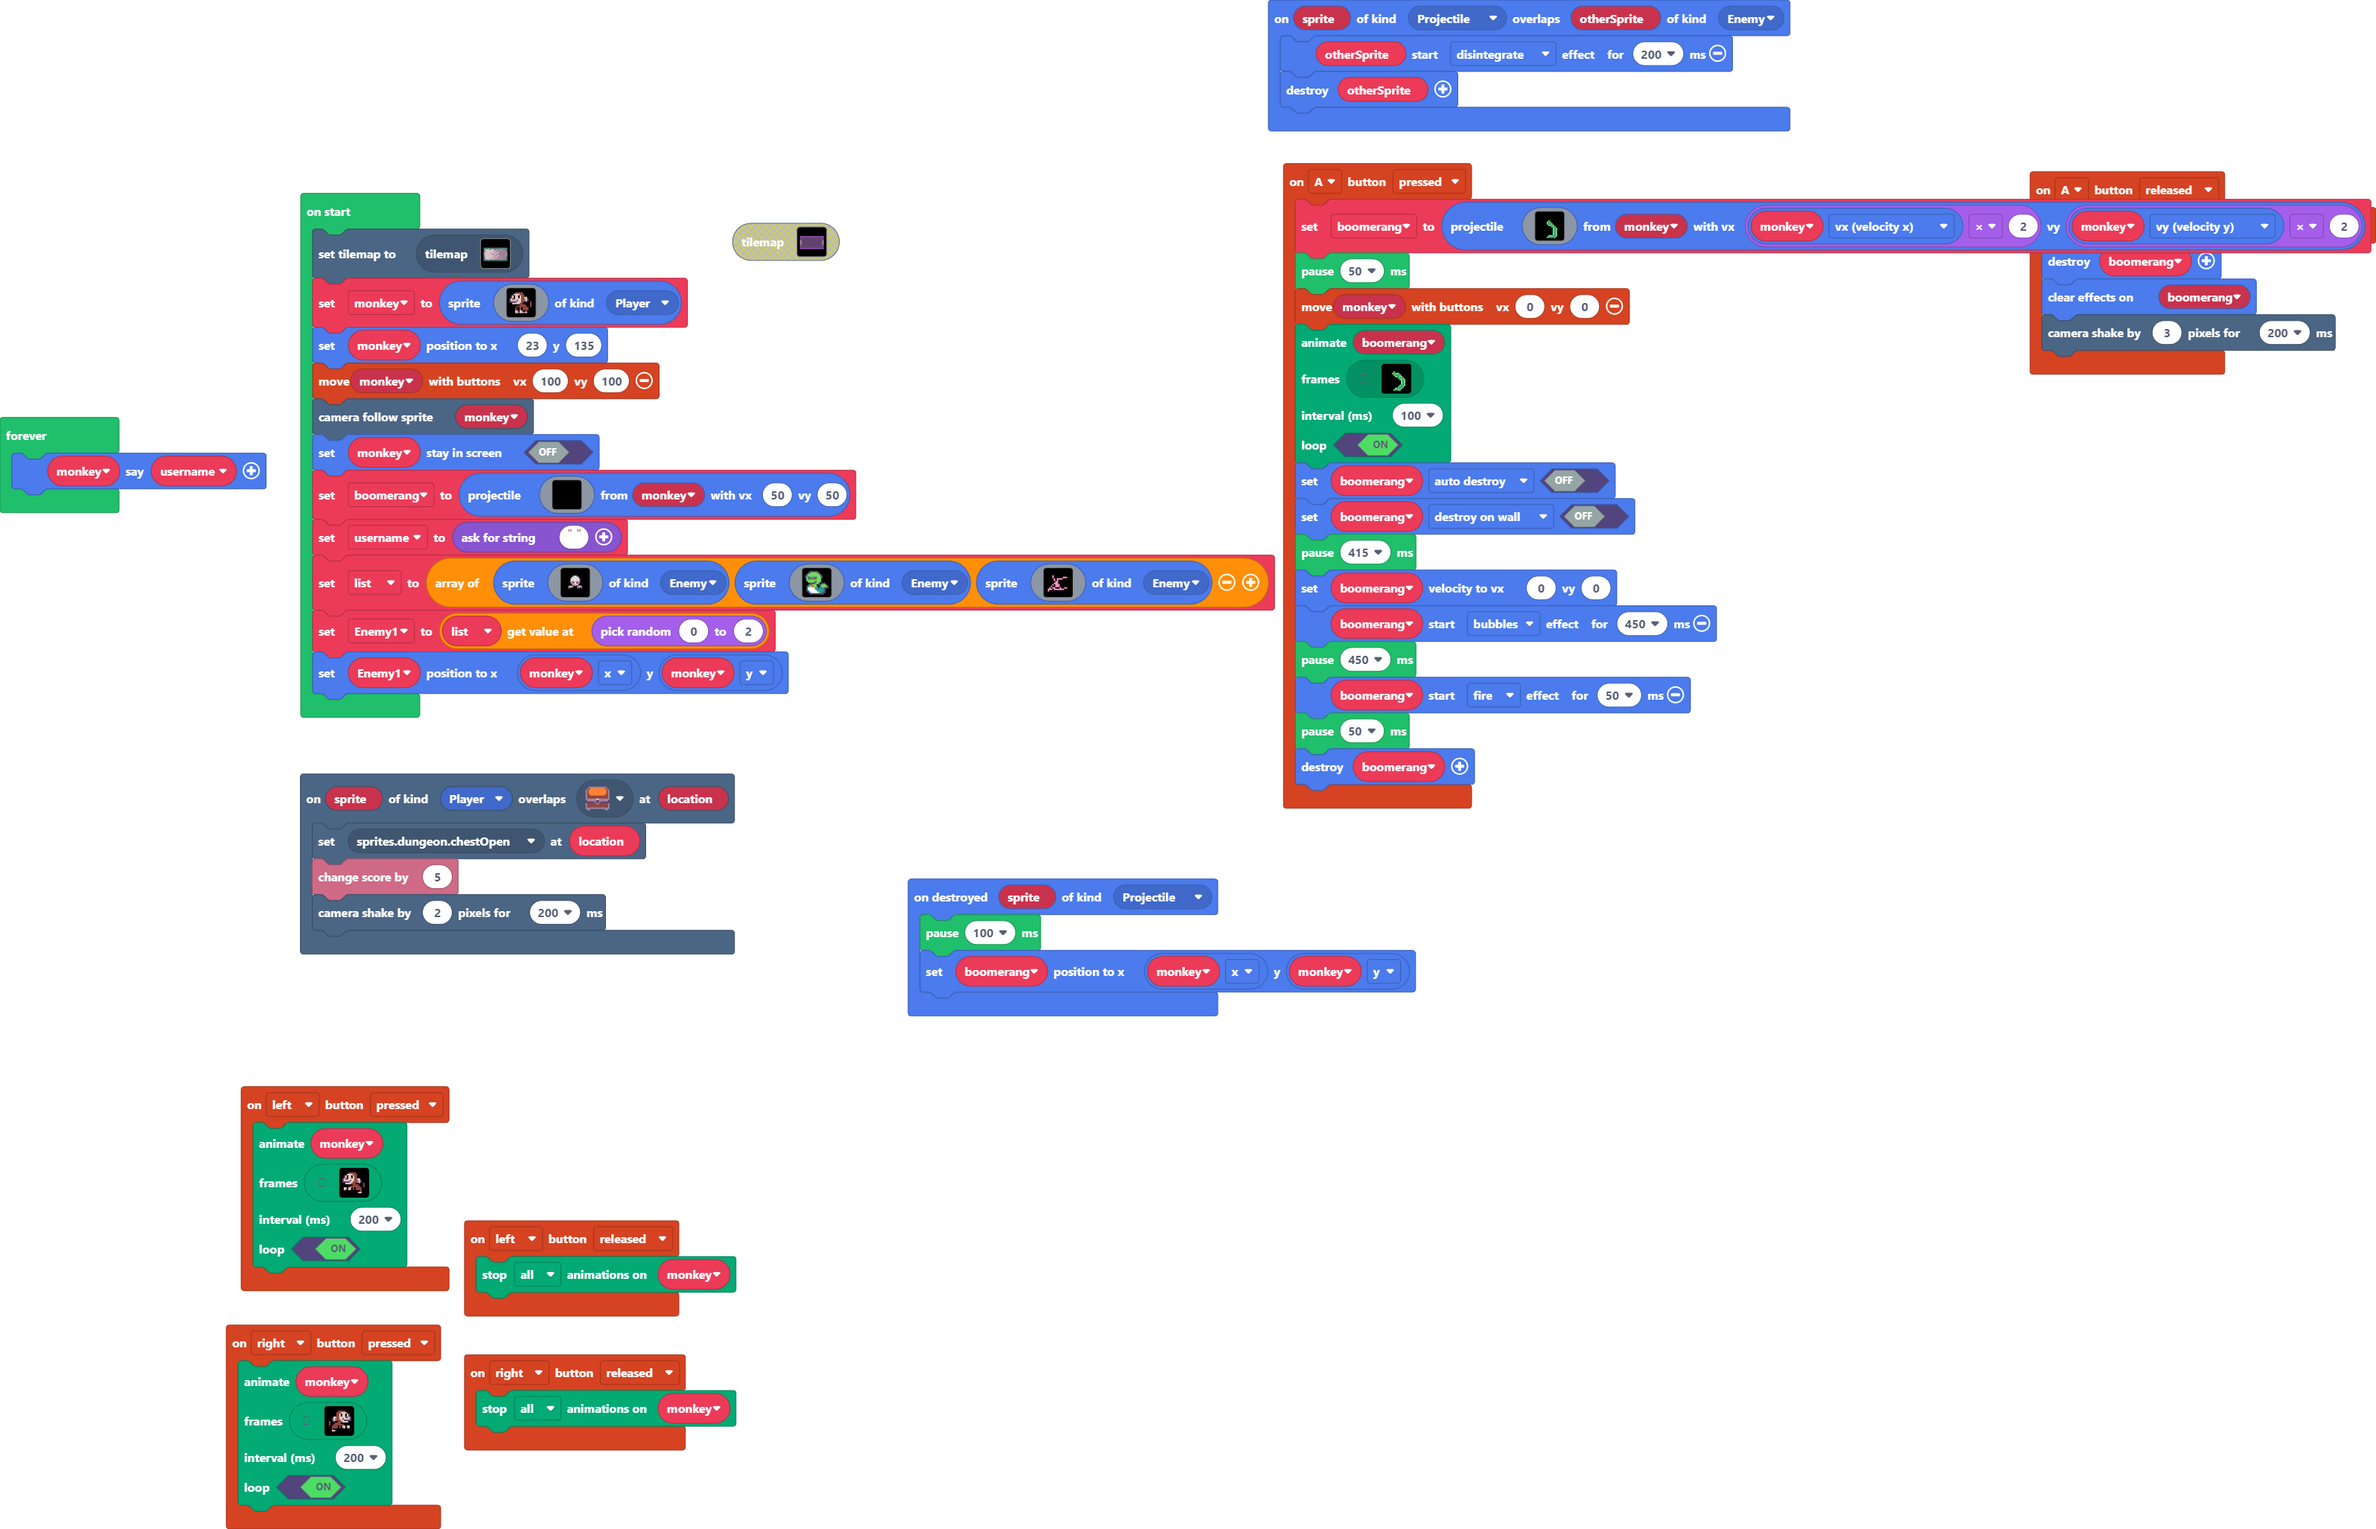
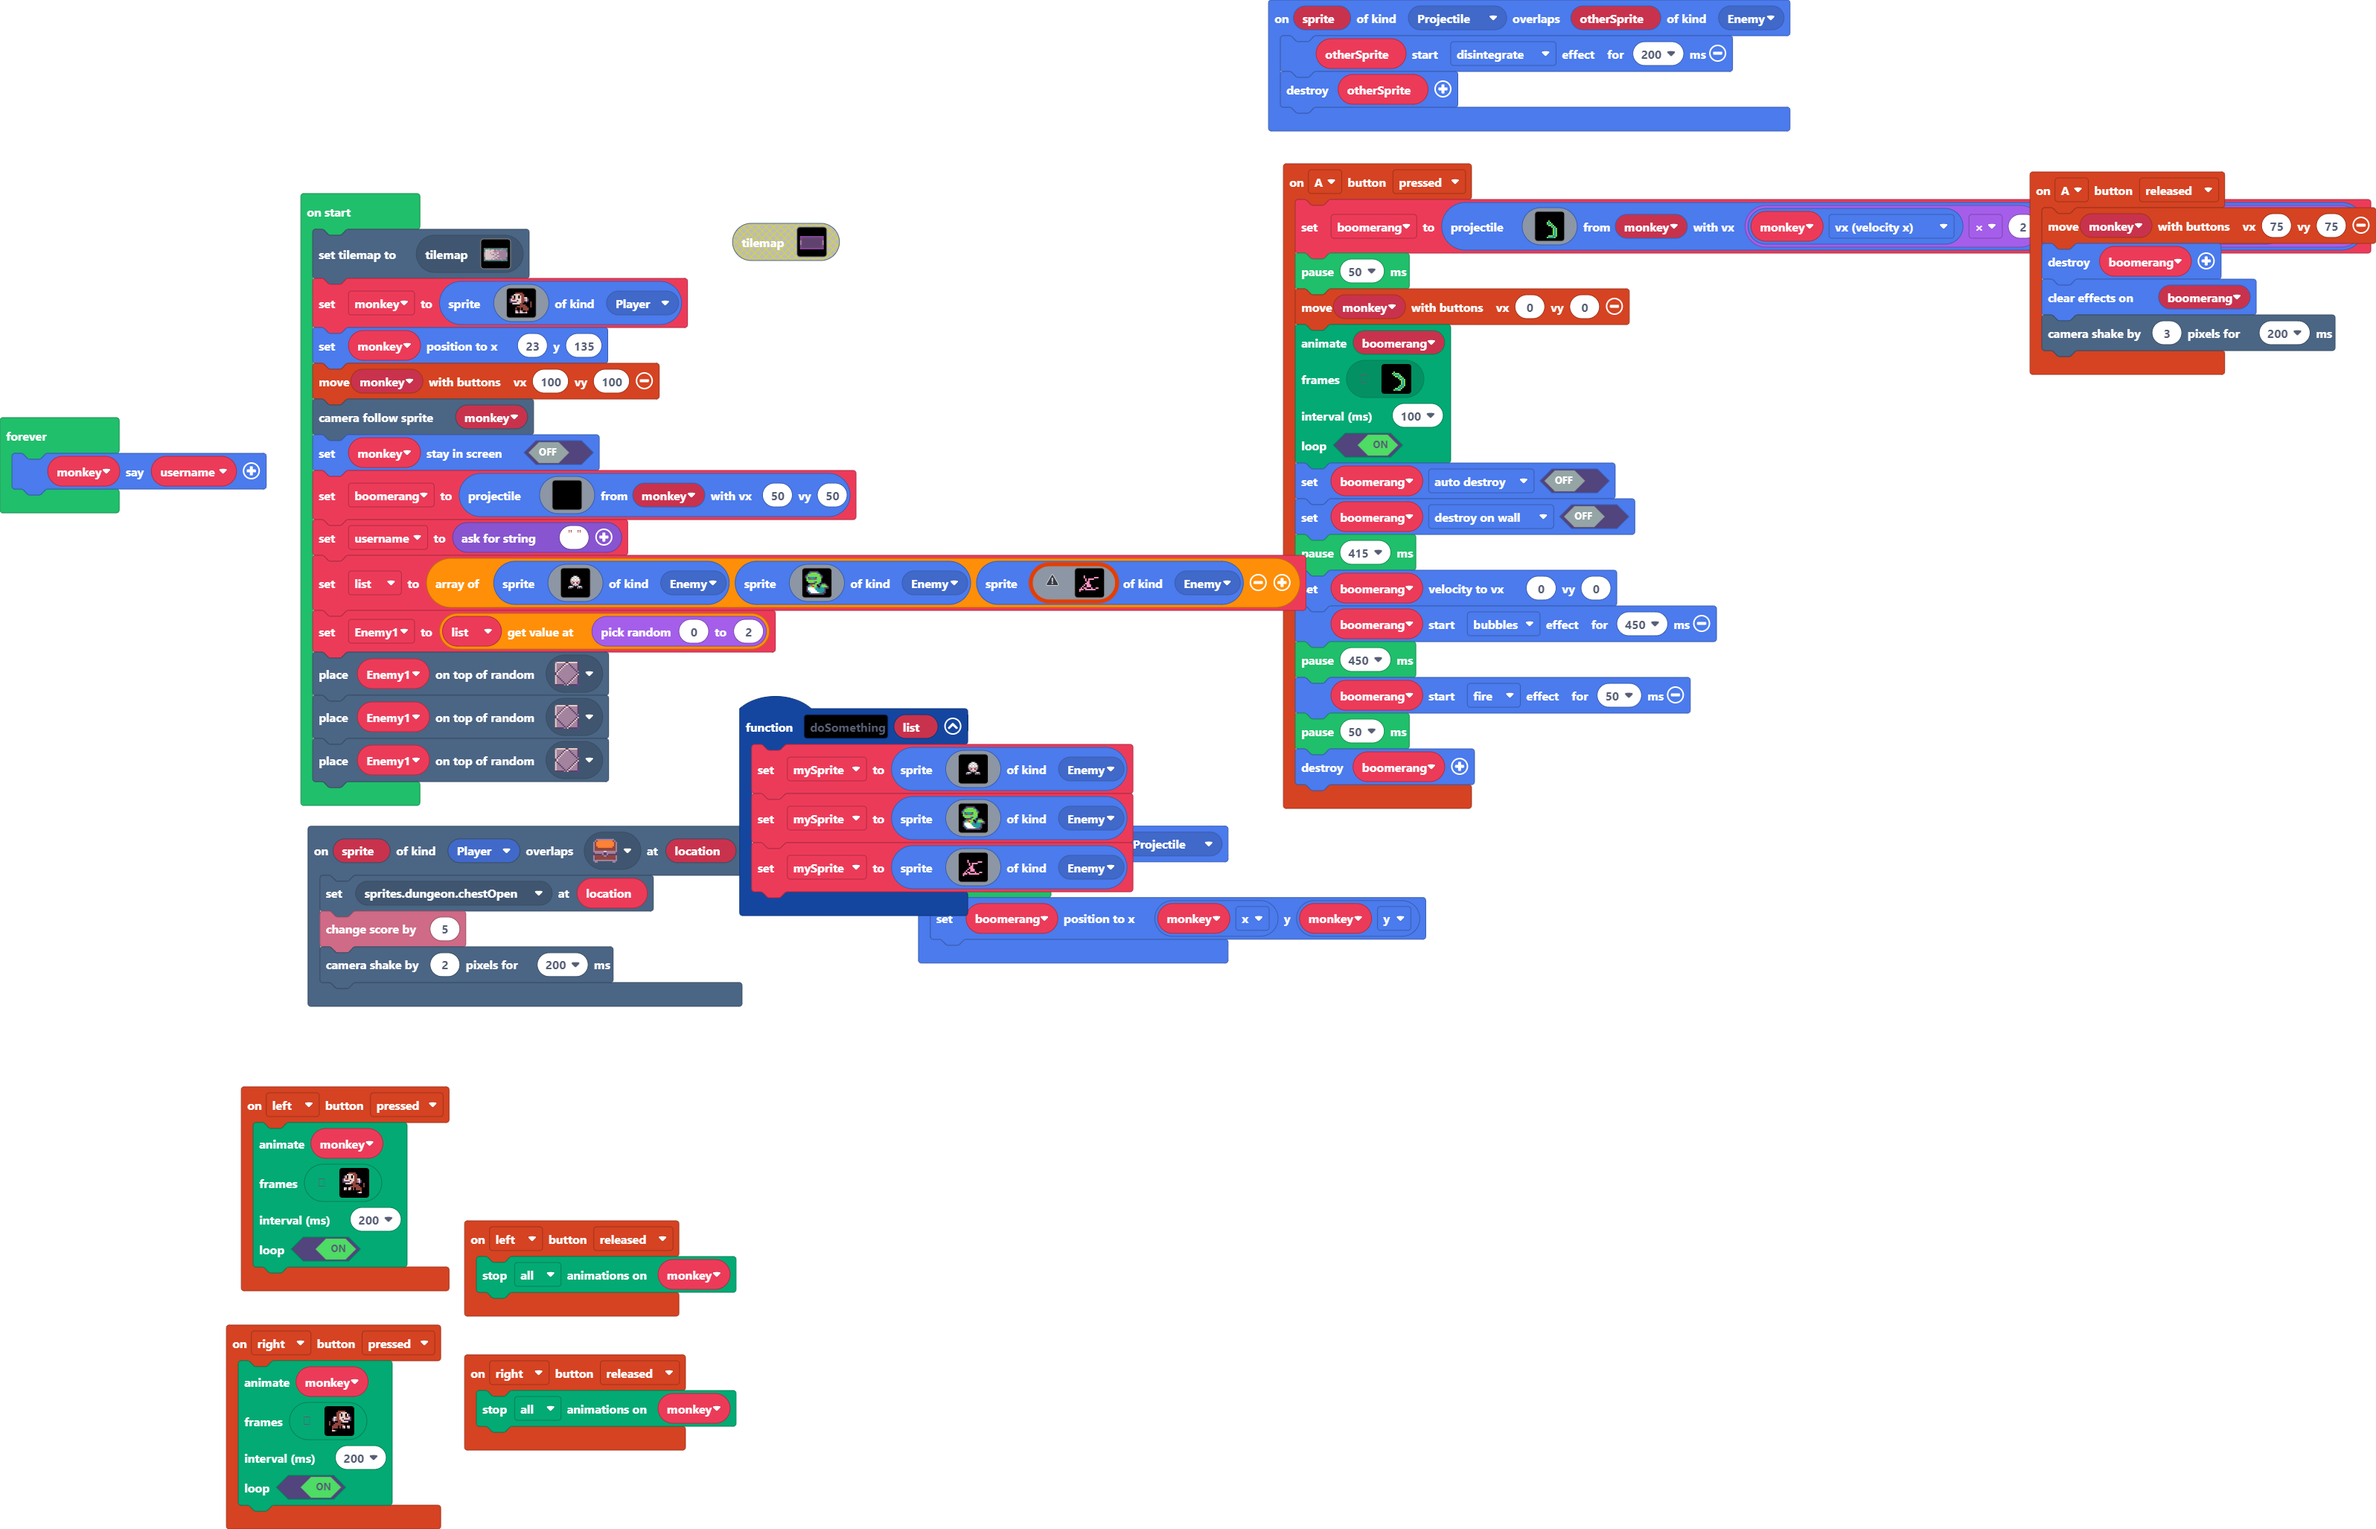
Update main.blocks, main.ts, tilemap.g.jres, tilemap.g.ts

diff --git a/tilemap.g.ts b/tilemap.g.ts
@@ -5,8 +5,27 @@ namespace myTiles {
 
     helpers._registerFactory("tilemap", function(name: string) {
         switch(helpers.stringTrim(name)) {
+            case "level2":
[1 lines of base64/hex data omitted]
+. . . . . . . . . . . . . . . . 
+. . . . . . . . . . . . . . . . 
+. . . . . . . . . . . . . . . . 
+. . . . . . . . . . . . . . . . 
+2 2 2 2 2 2 2 2 2 2 2 2 2 2 2 2 
+2 . . . . . . . . . . . . . . 2 
+2 . . . . . . . . . . . . . . 2 
+. . . . . . . . . . . . . . . . 
+. . . . . . . . . . . . . . . . 
+. . . . . . . . . . . . . . . . 
+2 . . . . . . . . . . . . . . 2 
+2 . . . . . . . . . . . . . . 2 
+2 2 2 2 2 2 2 2 2 2 2 2 2 2 2 2 
+. . . . . . . . . . . . . . . . 
+. . . . . . . . . . . . . . . . 
+. . . . . . . . . . . . . . . . 
+`, [myTiles.transparency16,sprites.dungeon.darkGroundNorthWest0,sprites.dungeon.darkGroundNorthEast0,sprites.dungeon.darkGroundSouthWest0,sprites.dungeon.darkGroundSouthEast0,sprites.dungeon.darkGroundWest,sprites.dungeon.darkGroundEast,sprites.dungeon.darkGroundNorth,sprites.dungeon.darkGroundSouth,sprites.dungeon.darkGroundCenter,sprites.dungeon.purpleOuterNorthEast,sprites.dungeon.purpleOuterSouthEast,sprites.dungeon.purpleOuterNorthWest,sprites.dungeon.purpleOuterWest0,sprites.dungeon.purpleOuterWest1,sprites.dungeon.purpleOuterEast0,sprites.dungeon.purpleOuterEast1,sprites.dungeon.purpleOuterSouthWest,sprites.dungeon.purpleOuterSouth1,sprites.dungeon.purpleOuterSouth0,sprites.dungeon.purpleOuterNorth1,sprites.dungeon.purpleOuterNorth0,sprites.dungeon.stairWest,sprites.dungeon.stairEast,sprites.dungeon.darkGroundNorthWest1], TileScale.Sixteen);
             case "level1":
[2 lines of base64/hex data omitted]
 . . . . . . . . . . . . . . . . 
 . . . . . . . . . . . . . . . . 
 . . . . . . . . . . . . . . . . 
@@ -24,25 +43,6 @@ namespace myTiles {
 . . . . . . . . . . . . . . . . 
 . . . . . . . . . . . . . . . . 
 `, [myTiles.transparency16,sprites.dungeon.greenOuterSouthEast,sprites.dungeon.greenOuterSouthWest,sprites.dungeon.greenOuterSouth0,sprites.dungeon.greenOuterSouth1,sprites.dungeon.greenOuterNorthEast,sprites.dungeon.greenOuterNorthWest,sprites.dungeon.greenOuterNorth0,sprites.dungeon.greenOuterNorth1,sprites.dungeon.greenOuterWest1,sprites.dungeon.greenOuterWest0,sprites.dungeon.greenOuterEast0,sprites.dungeon.greenOuterEast1,sprites.dungeon.greenOuterSouth2,sprites.dungeon.greenOuterNorth2,sprites.dungeon.floorLight0,sprites.dungeon.floorDark0,sprites.dungeon.floorMixed,sprites.dungeon.floorDark4,sprites.dungeon.floorLightMoss,sprites.dungeon.floorLight4,sprites.dungeon.floorLight1,sprites.dungeon.floorDark5,sprites.dungeon.floorDark1,sprites.dungeon.floorDarkDiamond,sprites.dungeon.floorLight2,sprites.dungeon.stairWest,sprites.dungeon.stairEast,sprites.dungeon.chestClosed], TileScale.Sixteen);
-            case "level2":
[1 lines of base64/hex data omitted]
-. . . . . . . . . . . . . . . . 
-. . . . . . . . . . . . . . . . 
-. . . . . . . . . . . . . . . . 
-. . . . . . . . . . . . . . . . 
-2 2 2 2 2 2 2 2 2 2 2 2 2 2 2 2 
-2 . . . . . . . . . . . . . . 2 
-2 . . . . . . . . . . . . . . 2 
-. . . . . . . . . . . . . . . . 
-. . . . . . . . . . . . . . . . 
-. . . . . . . . . . . . . . . . 
-2 . . . . . . . . . . . . . . 2 
-2 . . . . . . . . . . . . . . 2 
-2 2 2 2 2 2 2 2 2 2 2 2 2 2 2 2 
-. . . . . . . . . . . . . . . . 
-. . . . . . . . . . . . . . . . 
-. . . . . . . . . . . . . . . . 
-`, [myTiles.transparency16,sprites.dungeon.darkGroundNorthWest0,sprites.dungeon.darkGroundNorthEast0,sprites.dungeon.darkGroundSouthWest0,sprites.dungeon.darkGroundSouthEast0,sprites.dungeon.darkGroundWest,sprites.dungeon.darkGroundEast,sprites.dungeon.darkGroundNorth,sprites.dungeon.darkGroundSouth,sprites.dungeon.darkGroundCenter,sprites.dungeon.purpleOuterNorthEast,sprites.dungeon.purpleOuterSouthEast,sprites.dungeon.purpleOuterNorthWest,sprites.dungeon.purpleOuterWest0,sprites.dungeon.purpleOuterWest1,sprites.dungeon.purpleOuterEast0,sprites.dungeon.purpleOuterEast1,sprites.dungeon.purpleOuterSouthWest,sprites.dungeon.purpleOuterSouth1,sprites.dungeon.purpleOuterSouth0,sprites.dungeon.purpleOuterNorth1,sprites.dungeon.purpleOuterNorth0,sprites.dungeon.stairWest,sprites.dungeon.stairEast], TileScale.Sixteen);
         }
         return null;
     })

diff --git a/main.ts b/main.ts
@@ -340,6 +340,70 @@ controller.A.onEvent(ControllerButtonEvent.Released, function () {
     effects.clearParticles(boomerang)
     scene.cameraShake(3, 200)
 })
+function doSomething (list: any[]) {
+    mySprite = sprites.create(img`
+        ........................
+        ........................
+        ........................
+        ........................
+        ..........ffff..........
+        ........ff1111ff........
+        .......fb111111bf.......
+        .......f11111111f.......
+        ......fd11111111df......
+        ......fd11111111df......
+        ......fddd1111dddf......
+        ......fbdb2dd2bdbf......
+        ......fcdc2112cdcf......
+        .......fb111111bf.......
+        ......fffcdb1bdffff.....
+        ....fc111cbfbfc111cf....
+        ....f1b1b1ffff1b1b1f....
+        ....fbfbffffffbfbfbf....
+        .........ffffff.........
+        ...........fff..........
+        ........................
+        ........................
+        ........................
+        ........................
+        `, SpriteKind.Enemy)
+    mySprite = sprites.create(img`
+        . . . c c c c c c . . . . . . . 
+        . . c 6 7 7 7 7 6 c . . . . . . 
+        . c 7 7 7 7 7 7 7 7 c . . . . . 
+        c 6 7 7 7 7 7 7 7 7 6 c . . . . 
+        c 7 c 6 6 6 6 c 7 7 7 c . . . . 
+        f 7 6 2 6 6 2 6 7 7 7 f . . . . 
+        f 7 7 7 7 7 7 7 7 7 7 f . . . . 
+        . f 7 7 7 7 6 c 7 7 6 f . . . . 
+        . . f c c c c 7 7 6 f c c c . . 
+        . . c 6 2 7 7 7 f c c 7 7 7 c . 
+        . c 6 7 7 2 7 7 c f 6 7 7 7 7 c 
+        . c 1 1 1 1 7 6 6 c 6 6 6 c c c 
+        . c 1 1 1 1 1 6 6 6 6 6 6 c . . 
+        . c 6 1 1 1 1 1 6 6 6 6 6 c . . 
+        . . c 6 1 1 1 1 1 7 6 6 c c . . 
+        . . . c c c c c c c c c c . . . 
+        `, SpriteKind.Enemy)
+    mySprite = sprites.create(img`
+        . . . . . . . . . . . . . . . . 
+        . . . . . . . . . . . . . . . . 
+        . . . . . . . . . . . . . . . . 
+        . . . . 3 . . . . . . . . . . . 
+        . . . . 3 . . . . . . 3 3 3 . . 
+        . . . . . 3 . 3 3 3 3 . . . . . 
+        . . . . . 3 . 3 . . . . . . . . 
+        . . . . . . 3 3 . . . . . . . . 
+        . . . . . 3 3 3 . . . . . . . . 
+        . . . . 3 . 3 3 3 . . . . . . . 
+        . . . 3 . . 3 3 3 . . . . . . . 
+        . . 3 . 3 3 . . . 3 . . 3 3 . . 
+        . 3 3 3 . 3 3 3 3 3 3 3 . . . . 
+        . 3 . . . . . . . . . . . . . . 
+        . . . . . . . . . . . . . . . . 
+        . . . . . . . . . . . . . . . . 
+        `, SpriteKind.Enemy)
+}
 sprites.onDestroyed(SpriteKind.Projectile, function (sprite) {
     pause(100)
     boomerang.setPosition(monkey.x, monkey.y)
@@ -348,6 +412,7 @@ sprites.onOverlap(SpriteKind.Projectile, SpriteKind.Enemy, function (sprite, oth
     otherSprite.startEffect(effects.disintegrate, 200)
     otherSprite.destroy()
 })
+let mySprite: Sprite = null
 let boomerang: Sprite = null
 let monkey: Sprite = null
 tiles.setCurrentTilemap(tilemap`level1`)
@@ -453,7 +518,9 @@ let list = [sprites.create(img`
     . . . . . . . . . . . . . . . . 
     `, SpriteKind.Enemy)]
 let Enemy1 = list[randint(0, 2)]
-Enemy1.setPosition(monkey.x, monkey.y)
+tiles.placeOnRandomTile(Enemy1, sprites.dungeon.floorDarkDiamond)
+tiles.placeOnRandomTile(Enemy1, sprites.dungeon.floorDarkDiamond)
+tiles.placeOnRandomTile(Enemy1, sprites.dungeon.floorDarkDiamond)
 forever(function () {
     monkey.sayText(username)
 })
